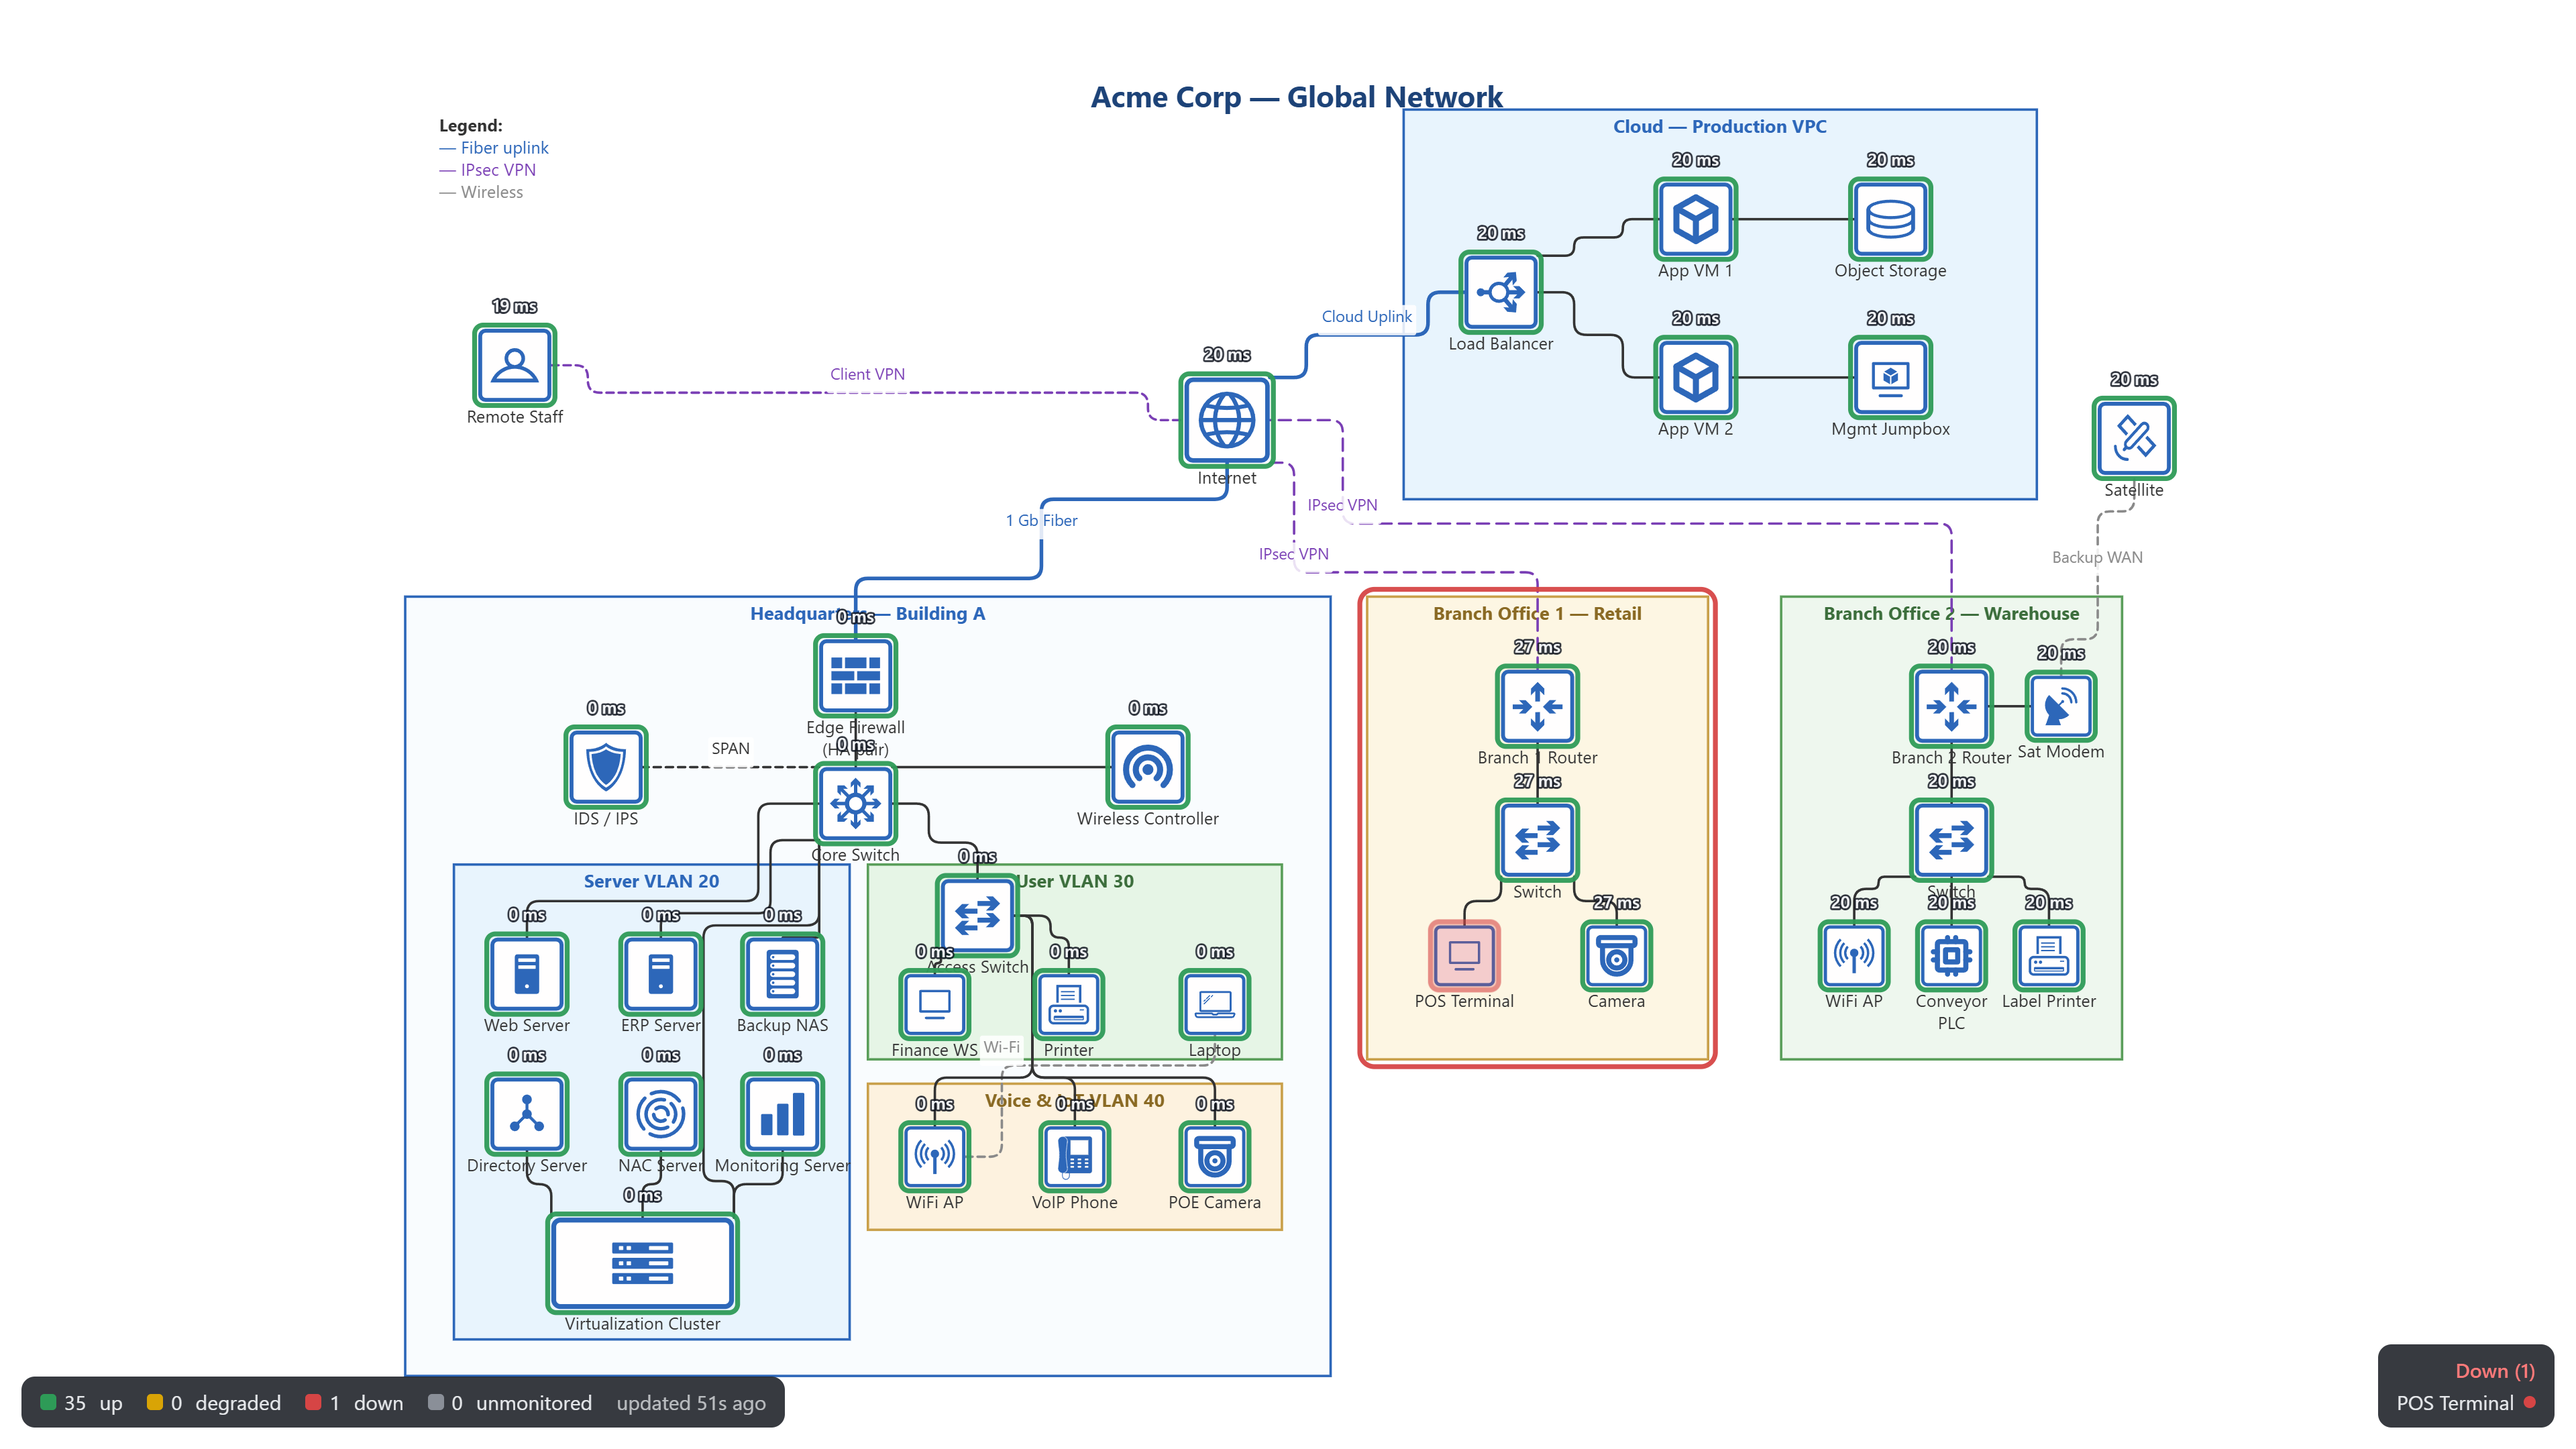
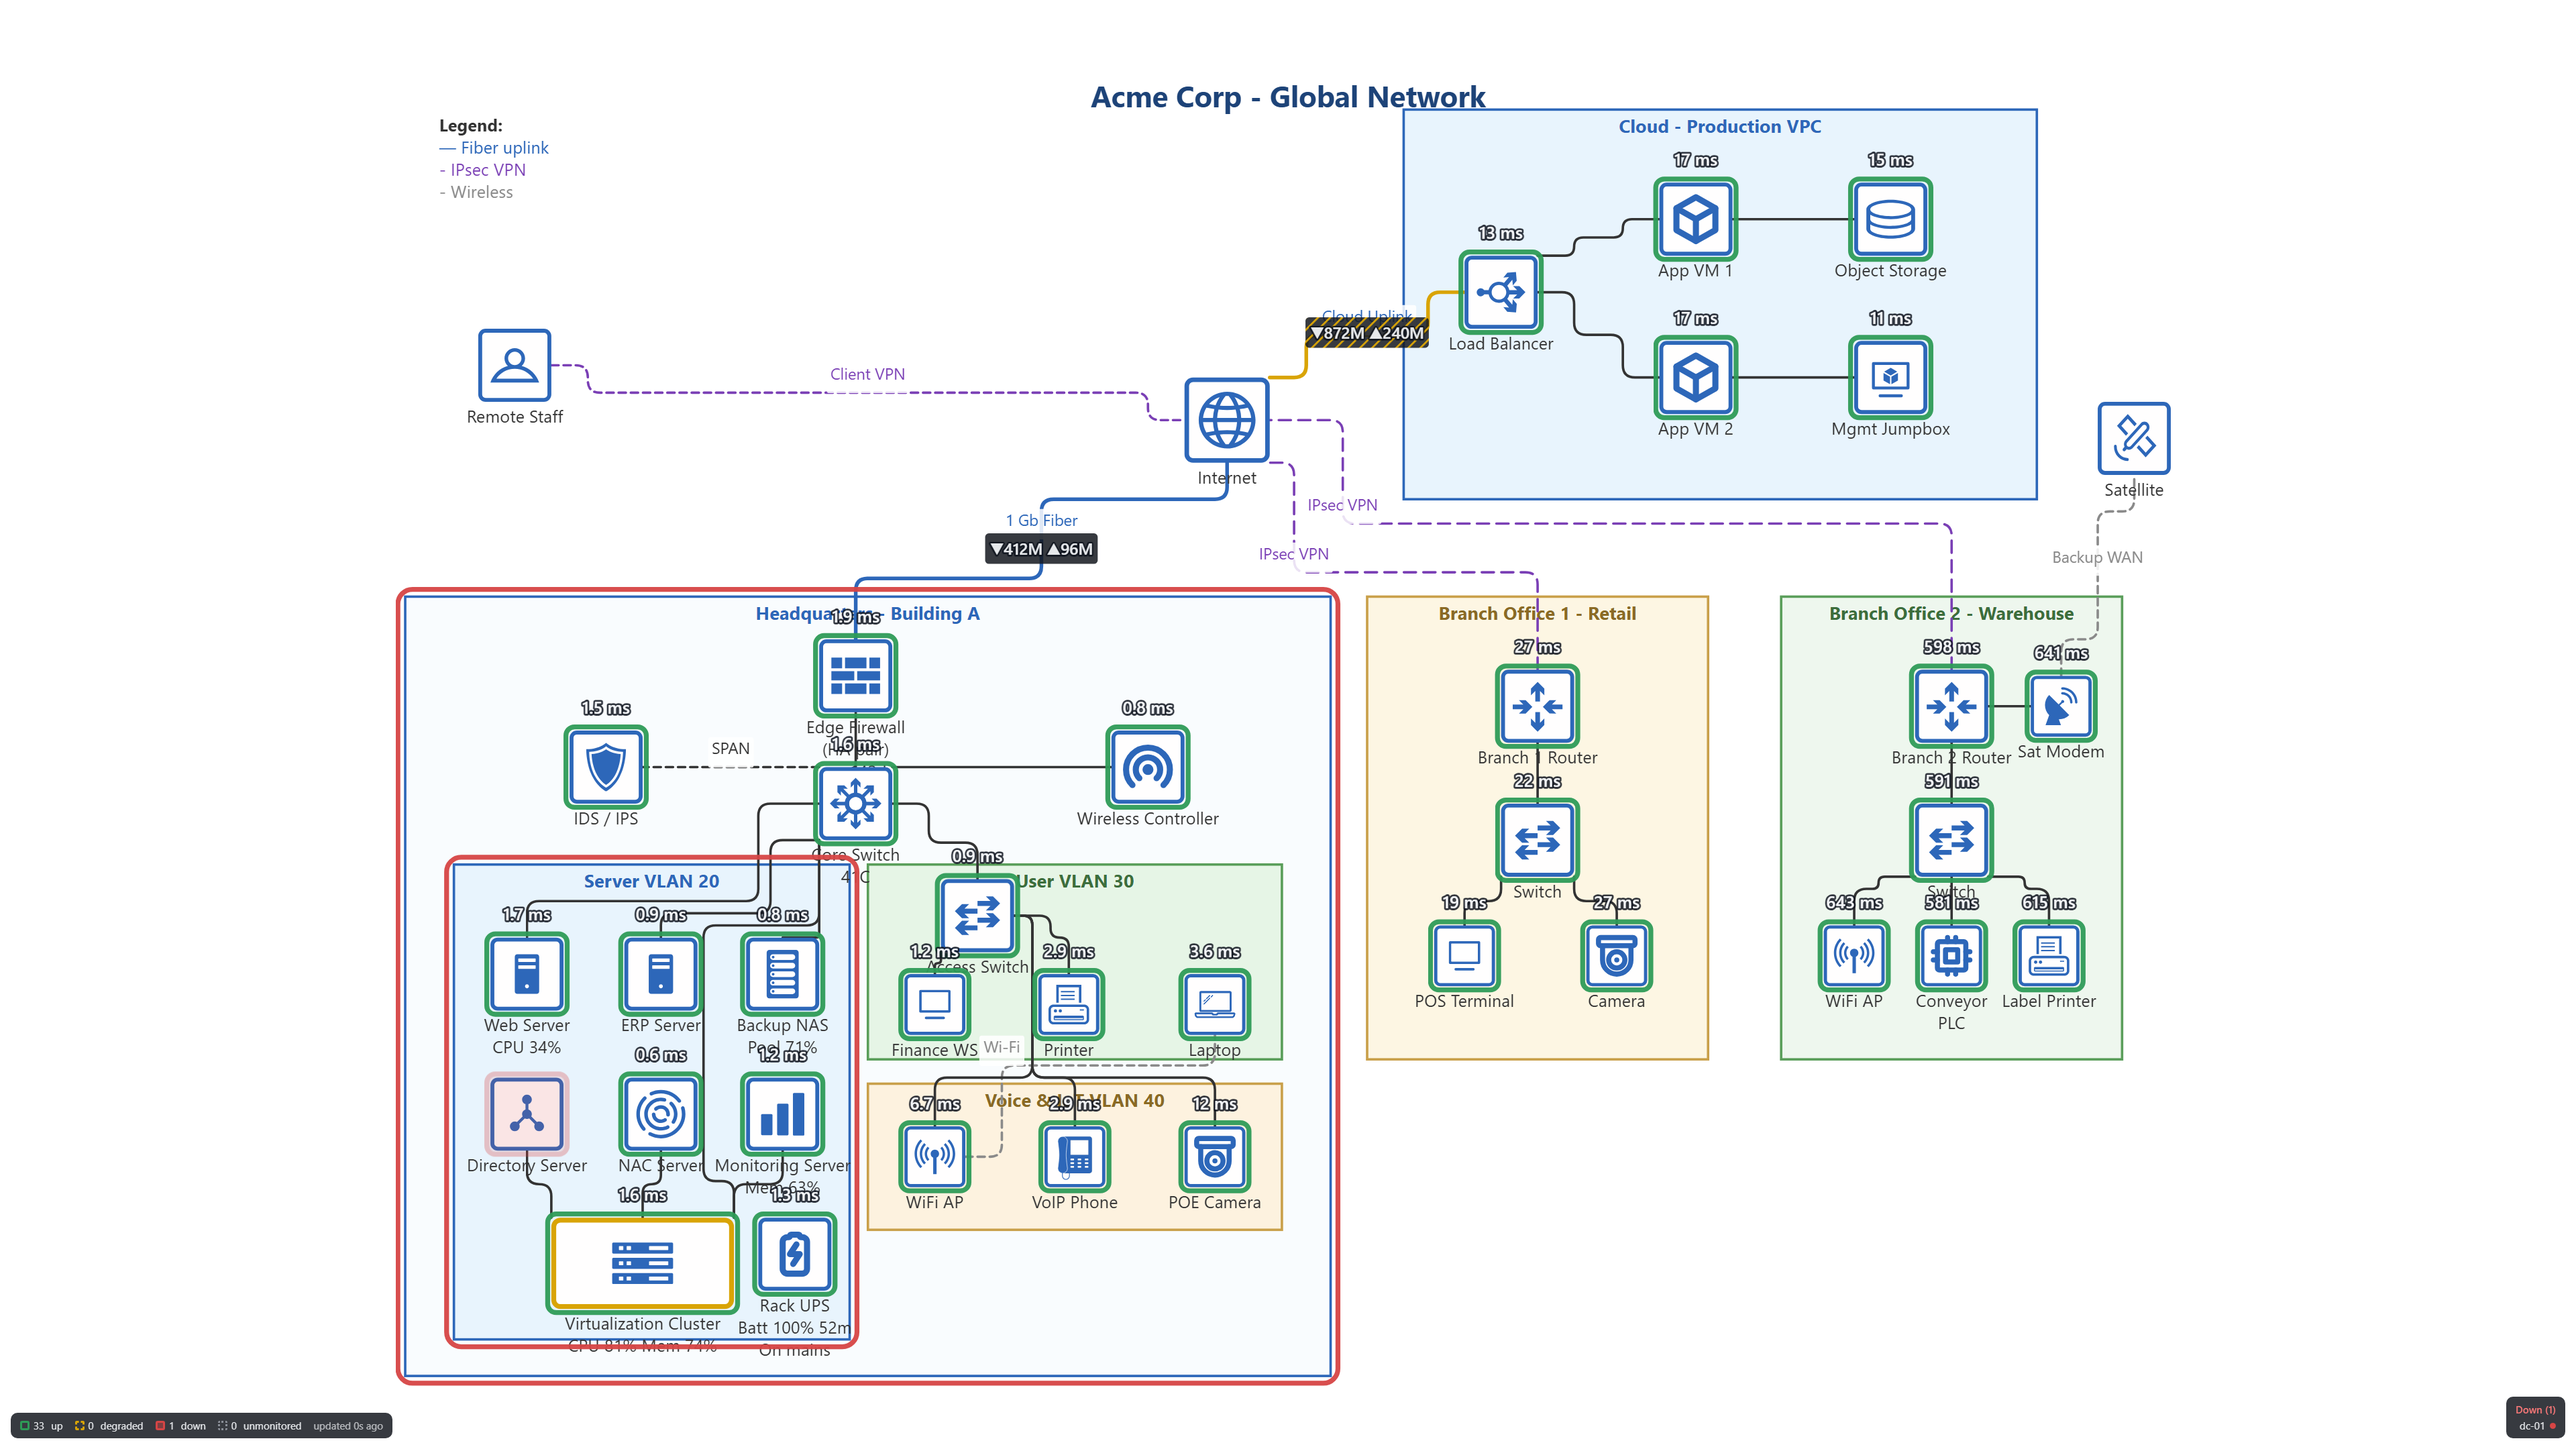
Re-shoot the wall, and add a social preview
The old hero was on a board nothing else in the suite references, and every
device read 0 ms - a feed that had gone flat. This one is the shared demo
estate with real per-link latency: sub-millisecond inside HQ, tens of
milliseconds to the retail branch, and the warehouse sitting at half a second
because it is on satellite.

One device is down, deliberately: the directory server. A single red device on
an otherwise green wall shows the whole alerting chain at once - the red wash,
both the server VLAN ring and the building ring around it, and the HUD counting
33 up, 1 down - without the board becoming a sea of red that says nothing.

Also adds docs/social-preview.png (1280x640), which this repo never had. It
still has to be uploaded through GitHub's repo settings; committing it just
means the file is versioned with everything else.

Alt text follows the shot; it was describing a POS terminal and a count of 35.

diff --git a/README.md b/README.md
@@ -25,8 +25,9 @@ front door, uploads boards to this wall straight from the browser - the
 **Install the whole suite in one command:** the [canvas-suite](https://github.com/RootSwitch/canvas-suite) repo is the family's landing page, with one-shot install scripts for the full six-app stack or a Pi-class PingCanvas + AlertCanvas pair.
 
 ![The PingCanvas kiosk wall: a corporate network with green rings and latency
-readouts on healthy devices, one POS terminal down - red-washed, its branch
-office zone ring raising the alarm - and the live HUD counting 35 up](docs/hero-kiosk.png)
+readouts on healthy devices, the directory server down - red-washed, with both
+the server VLAN it sits in and the building around it ringed red - and the live
+HUD counting 33 up, 1 down](docs/hero-kiosk.png)
 
 ## Boards come from CrossCanvas
 
